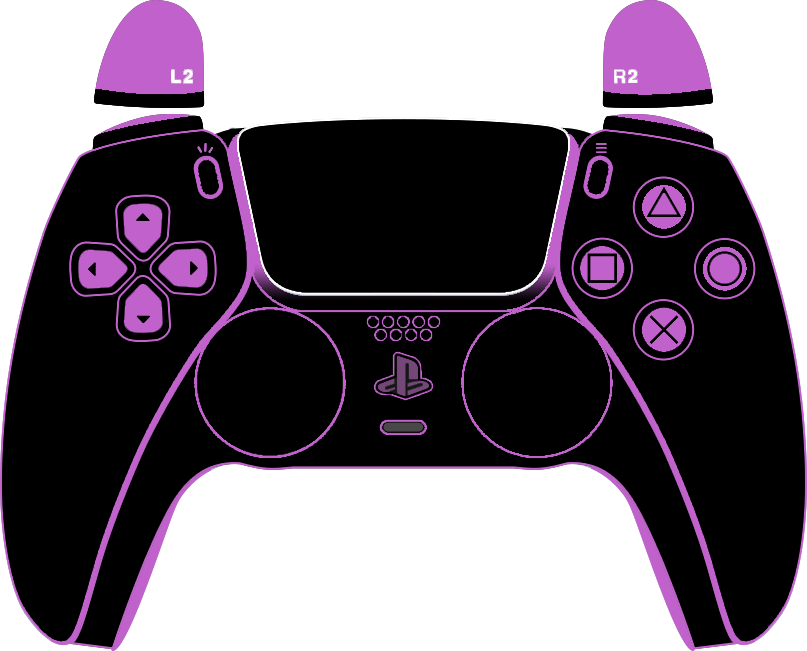
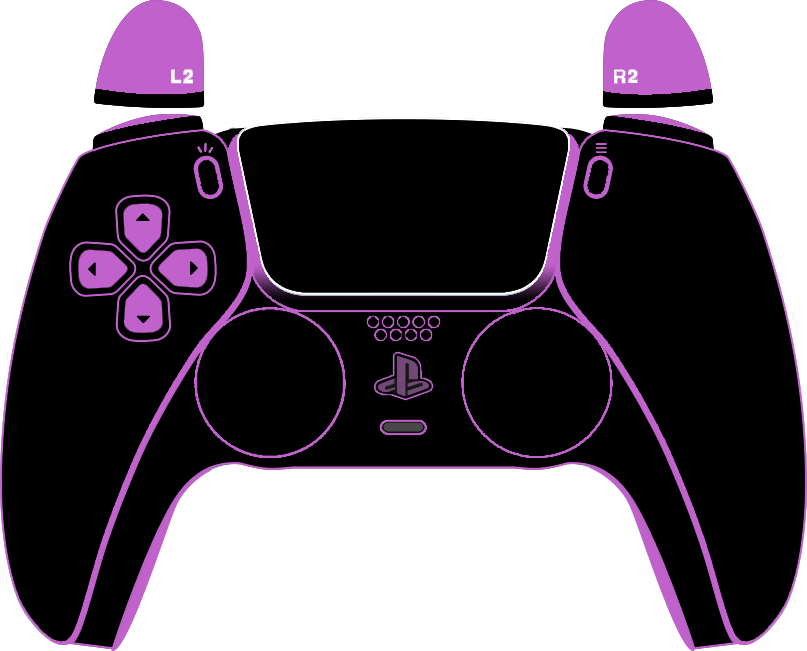
Add files via upload

diff --git a/FinalPS5/Final.css b/FinalPS5/Final.css
@@ -4,7 +4,7 @@ body {
     margin: 0 auto; 
     overflow: hidden; 
 } .controller.xbox{
-    background: url(bodymod1.png);
+    background: url(bodymod.png);
     width: 807px;
     height: 651px;
     margin-left: 0;
@@ -59,7 +59,7 @@ body {
 } .xbox .quadrant { 
     display: none; 
 } .xbox .back, .xbox .start {
-    background: url(https://i.imgur.com/YJRVQxC.png);
+    background: url(start-selectmod.png);
     width: 27px;
     height: 57px;
     opacity: 0;
@@ -113,7 +113,7 @@ body {
     height: 108px;
     left: 94px;
 } .xbox .trigger {
-    background: url(https://i.imgur.com/LsxmGBD.png);
+    background: url(triggersmod.png);
     width: 111px;
     height: 108px;
     opacity: 0;
